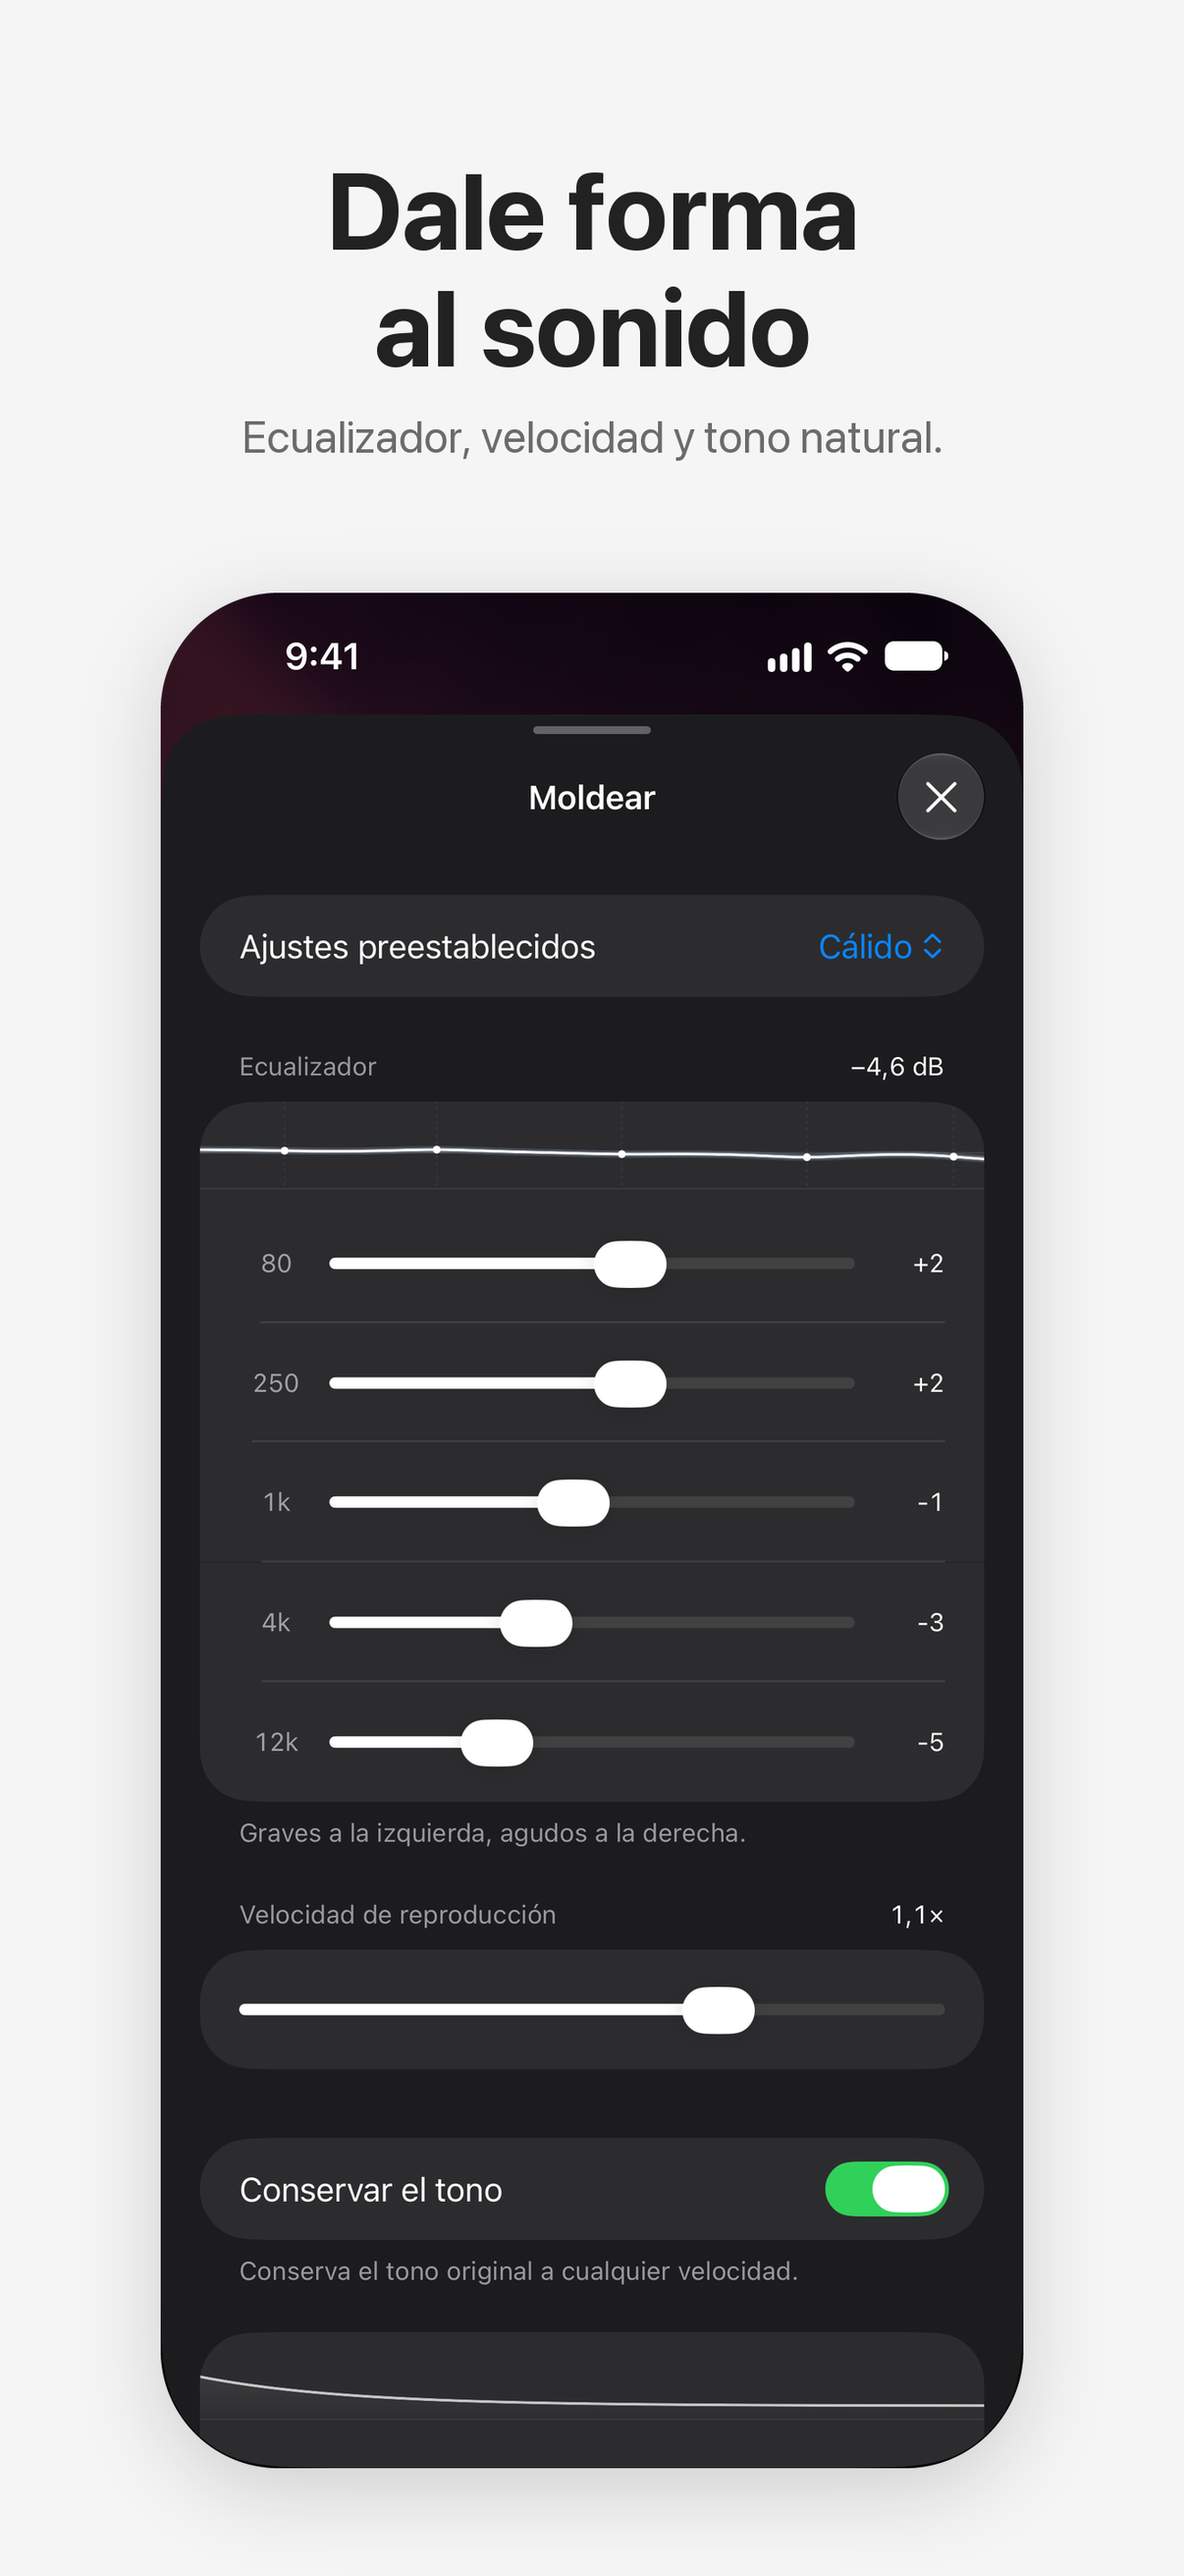
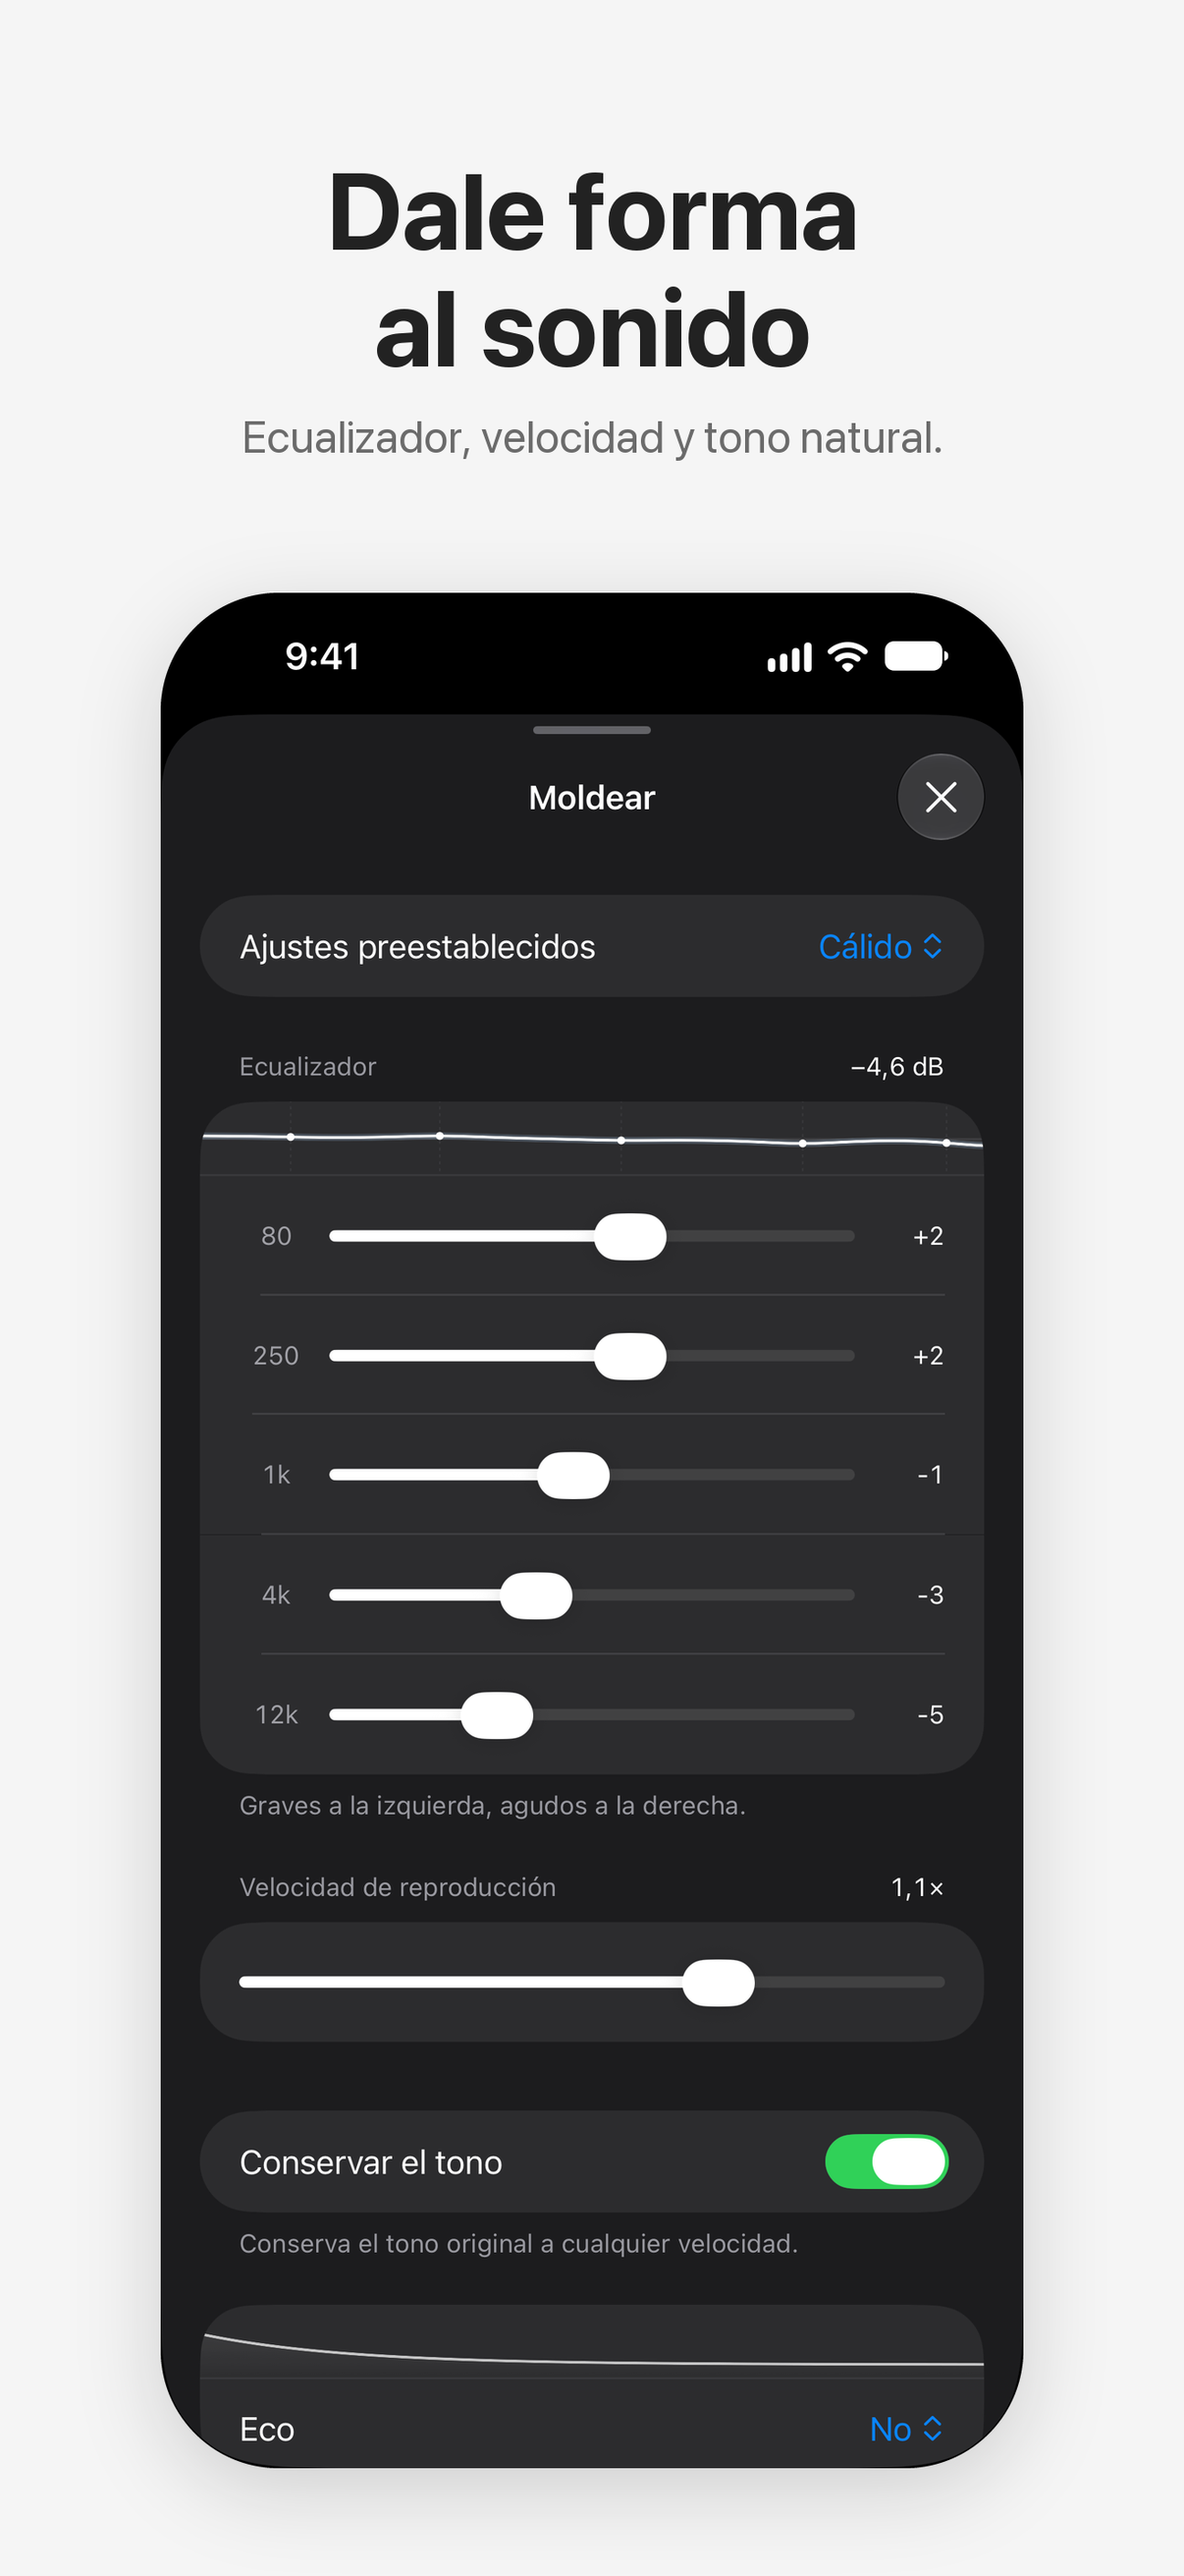
fix(shape): pair studio scopes with first control row to avoid iOS 26 52pt cell floor

diff --git a/src/app/(app)/shaper.tsx b/src/app/(app)/shaper.tsx
@@ -17,7 +17,6 @@ import {
   font,
   foregroundStyle,
   frame,
-  listRowSeparator,
   listSectionMargins,
   monospacedDigit,
   offset,
@@ -25,10 +24,7 @@ import {
   tag,
   tint,
 } from '@expo/ui/swift-ui/modifiers';
-import {
-  prepareShapeScopeCells,
-  scrollSheetSection,
-} from '@modules/audio-session';
+import { scrollSheetSection } from '@modules/audio-session';
 
 import {
   EchoScope,
@@ -38,12 +34,11 @@ import {
   formatSignedDb,
   nextRoom1kDb,
   NextRoomScope,
-  SCOPE_CELL_PAD_Y,
   SCOPE_HEIGHT,
 } from '@/components/player/ShapeScopesIos';
 import { SheetScreen } from '@/components/ui/SheetScreenIos';
 import { SKELETON_DELAY_MS } from '@/components/ui/Skeleton';
-import { ROW_INSET, SCREEN_PADDING, useAppTheme } from '@/core';
+import { useAppTheme } from '@/core';
 import { useDelayedShow } from '@/hooks/useDelayedShow';
 import { useI18n } from '@/i18n';
 import {
@@ -110,6 +105,9 @@ import { FormValueRowIos, SheetFormBodyIos } from '@/ui';
 const FOOTER_TO_HEADER_MAKEUP = 10;
 
 const EQ_LABEL_WIDTH = 38;
+/** iOS 26 inset-grouped Form horizontal card margin and cell content inset (20pt each). */
+const FORM_CARD_INSET = 20;
+const FORM_CELL_INSET = 20;
 
 /** The Presets row's tag for a hand-shaped curve; never a real preset key. */
 const CUSTOM_TAG = 'custom';
@@ -137,16 +135,16 @@ function DjProgressRow(props: Parameters<typeof FormValueRowIos>[0]) {
 }
 
 /**
- * Hosted studio parameter scope row inside a grouped SwiftUI `Section`:
- * - `@expo/ui`'s `SectionView` wraps its children in a `SlotView`, so SwiftUI's
- *   `listRowInsets` cannot reach the `UICollectionViewListCell` directly and
- *   the cell keeps its default `ROW_INSET` (16pt) horizontal and 11pt vertical
- *   content margins.
- * - We therefore reserve the inner row box (`width - ROW_INSET * 2`, height
- *   `SCOPE_HEIGHT - SCOPE_CELL_PAD_Y * 2 + 4`) in the layout `VStack`, and
- *   expand the inner `RNHostView` to the full `cardWidth` (`width`) shifted left
- *   by `-ROW_INSET` so the scope spans 100% edge-to-edge across the grouped
- *   card and lands flush on the bottom cell divider with zero gap.
+ * Hosted studio parameter scope at the top of a grouped SwiftUI `Section`:
+ * - iOS 26 inset-grouped `Form` enforces a `52pt` `defaultMinListRowHeight` on
+ *   every standalone cell (`15pt` top + `22pt` content + `15pt` bottom), which
+ *   previously forced a `38pt` scope cell to `52pt` and left `~8pt` of empty
+ *   space below the scope's bottom border above the first control row.
+ * - Pairing `ScopeRowIos` with the section's first control row inside a single
+ *   `VStack(spacing: 15)` cell avoids creating a separate `52pt`-clamped cell:
+ *   the scope bleeds into the cell's `15pt` top and `20pt` horizontal margins
+ *   to span the full `cardWidth` at its exact `38pt` height, and the control
+ *   row below it receives symmetric `15pt` top and bottom vertical padding.
  */
 function ScopeRowIos({
   width,
@@ -155,13 +153,12 @@ function ScopeRowIos({
   width: number;
   children: ReactElement;
 }) {
-  const innerWidth = Math.max(1, width - ROW_INSET * 2);
-  const layoutHeight = Math.max(16, SCOPE_HEIGHT - SCOPE_CELL_PAD_Y * 2 + 4);
+  const innerWidth = Math.max(1, width - FORM_CELL_INSET * 2);
+  const layoutHeight = SCOPE_HEIGHT - 15;
   return (
     <VStack
       alignment="leading"
       modifiers={[
-        listRowSeparator('hidden', 'bottom'),
         frame({
           width: innerWidth,
           height: layoutHeight,
@@ -172,7 +169,7 @@ function ScopeRowIos({
       <VStack
         modifiers={[
           frame({ width, height: SCOPE_HEIGHT }),
-          offset({ x: -ROW_INSET, y: 0 }),
+          offset({ x: -FORM_CELL_INSET, y: -7.5 }),
         ]}
       >
         <RNHostView>{children}</RNHostView>
@@ -211,43 +208,45 @@ function LevelPickerSection({
 }) {
   return (
     <Section footer={<SwiftUIText>{footer}</SwiftUIText>}>
-      <ScopeRowIos width={scopeWidth}>{scope}</ScopeRowIos>
-      <Picker
-        label={
-          meta ? (
-            <SwiftUIText>
-              <SwiftUIText
-                modifiers={[
-                  font({ textStyle: 'body', weight: 'regular' }),
-                  foregroundStyle(activeColor),
-                ]}
-              >
-                {`${label}  `}
+      <VStack spacing={15}>
+        <ScopeRowIos width={scopeWidth}>{scope}</ScopeRowIos>
+        <Picker
+          label={
+            meta ? (
+              <SwiftUIText>
+                <SwiftUIText
+                  modifiers={[
+                    font({ textStyle: 'body', weight: 'regular' }),
+                    foregroundStyle(activeColor),
+                  ]}
+                >
+                  {`${label}  `}
+                </SwiftUIText>
+                <SwiftUIText
+                  modifiers={[
+                    font({ textStyle: 'subheadline', weight: 'regular' }),
+                    monospacedDigit(),
+                    foregroundStyle(mutedColor),
+                  ]}
+                >
+                  {meta}
+                </SwiftUIText>
               </SwiftUIText>
-              <SwiftUIText
-                modifiers={[
-                  font({ textStyle: 'subheadline', weight: 'regular' }),
-                  monospacedDigit(),
-                  foregroundStyle(mutedColor),
-                ]}
-              >
-                {meta}
-              </SwiftUIText>
+            ) : (
+              label
+            )
+          }
+          selection={value}
+          onSelectionChange={onChange}
+          modifiers={[pickerStyle('menu')]}
+        >
+          {EFFECT_LEVELS.map(level => (
+            <SwiftUIText key={level} modifiers={[tag(level)]}>
+              {levelLabel(level)}
             </SwiftUIText>
-          ) : (
-            label
-          )
-        }
-        selection={value}
-        onSelectionChange={onChange}
-        modifiers={[pickerStyle('menu')]}
-      >
-        {EFFECT_LEVELS.map(level => (
-          <SwiftUIText key={level} modifiers={[tag(level)]}>
-            {levelLabel(level)}
-          </SwiftUIText>
-        ))}
-      </Picker>
+          ))}
+        </Picker>
+      </VStack>
     </Section>
   );
 }
@@ -255,17 +254,10 @@ function LevelPickerSection({
 function ShaperSheetScreen() {
   const { t, locale } = useI18n();
   const { width: winW } = useWindowDimensions();
-  const scopeWidth = Math.max(1, Math.round(winW - SCREEN_PADDING * 2));
+  const scopeWidth = Math.max(1, Math.round(winW - FORM_CARD_INSET * 2));
 
   useEffect(() => {
     track({ name: 'open_shape' });
-    prepareShapeScopeCells();
-    const t1 = setTimeout(prepareShapeScopeCells, 120);
-    const t2 = setTimeout(prepareShapeScopeCells, 350);
-    return () => {
-      clearTimeout(t1);
-      clearTimeout(t2);
-    };
   }, []);
   const { colors } = useAppTheme();
 
@@ -429,12 +421,9 @@ function ShaperSheetScreen() {
           }
           footer={<SwiftUIText>{t('player.eq.hint')}</SwiftUIText>}
         >
-          <ScopeRowIos width={scopeWidth}>
-            <EqScope gains={gains} playing={playing} width={scopeWidth} />
-          </ScopeRowIos>
           {EQ_BANDS.map((band, index) => {
             const bandActive = gains[index] !== 0;
-            return (
+            const row = (
               <HStack key={band.hz} spacing={8}>
                 <SwiftUIText
                   modifiers={[...mutedText, frame({ width: EQ_LABEL_WIDTH })]}
@@ -460,6 +449,16 @@ function ShaperSheetScreen() {
                   {dbLabel(gains[index])}
                 </SwiftUIText>
               </HStack>
+            );
+            return index === 0 ? (
+              <VStack key={band.hz} spacing={15}>
+                <ScopeRowIos width={scopeWidth}>
+                  <EqScope gains={gains} playing={playing} width={scopeWidth} />
+                </ScopeRowIos>
+                {row}
+              </VStack>
+            ) : (
+              row
             );
           })}
         </Section>

diff --git a/modules/audio-session/ios/AudioSessionModule.swift b/modules/audio-session/ios/AudioSessionModule.swift
@@ -17,36 +17,6 @@ public class AudioSessionModule: Module {
     return nil
   }
 
-  private static func hideNativeSeparators(in view: UIView, rootCell: UIView) {
-    for sub in view.subviews {
-      let typeName = String(describing: type(of: sub))
-      let frameInCell = sub.convert(sub.bounds, to: rootCell)
-      if typeName.contains("Separator") ||
-         (sub.bounds.height > 0 && sub.bounds.height <= 1.5 && frameInCell.maxY >= rootCell.bounds.height - 3) {
-        sub.isHidden = true
-        sub.alpha = 0
-      } else {
-        hideNativeSeparators(in: sub, rootCell: rootCell)
-      }
-    }
-  }
-
-  private static func applyFullBleedSeparator(to cell: UICollectionViewCell) {
-    hideNativeSeparators(in: cell, rootCell: cell)
-  }
-
-  private static func tuneScopeCells(in cv: UICollectionView) {
-    // Sections 1 (Equalizer), 4 (Echo), and 5 (Next Room) have their studio
-    // parameter scope at item 0.
-    for section in [1, 4, 5] where section < cv.numberOfSections {
-      guard cv.numberOfItems(inSection: section) > 0 else { continue }
-      let indexPath = IndexPath(item: 0, section: section)
-      if let cell = cv.cellForItem(at: indexPath) {
-        applyFullBleedSeparator(to: cell)
-      }
-    }
-  }
-
   public func definition() -> ModuleDefinition {
     Name("AudioSession")
 
@@ -120,38 +90,6 @@ public class AudioSessionModule: Module {
 
         if abs(sv.contentOffset.y - targetY) > 2 {
           sv.setContentOffset(CGPoint(x: sv.contentOffset.x, y: targetY), animated: true)
-          if let cv = sv as? UICollectionView {
-            Self.tuneScopeCells(in: cv)
-            DispatchQueue.main.asyncAfter(deadline: .now() + 0.35) {
-              Self.tuneScopeCells(in: cv)
-            }
-          }
-        } else if let cv = sv as? UICollectionView {
-          Self.tuneScopeCells(in: cv)
-        }
-      }
-    }
-
-    Function("prepareShapeScopeCells") { () in
-      DispatchQueue.main.async {
-        guard
-          let scene = UIApplication.shared.connectedScenes
-            .compactMap({ $0 as? UIWindowScene })
-            .first(where: { $0.activationState == .foregroundActive }),
-          let window = scene.windows.first(where: { $0.isKeyWindow }) ?? scene.windows.first,
-          let root = window.rootViewController
-        else { return }
-
-        var scrollView: UIScrollView?
-        var current = root.presentedViewController
-        while let vc = current {
-          if let found = Self.findFormScrollView(in: vc.view) {
-            scrollView = found
-          }
-          current = vc.presentedViewController
-        }
-        if let cv = scrollView as? UICollectionView {
-          Self.tuneScopeCells(in: cv)
         }
       }
     }

diff --git a/src/components/player/ShapeScopesIos.tsx b/src/components/player/ShapeScopesIos.tsx
@@ -42,18 +42,13 @@ import {
 export const SCOPE_HEIGHT = 38;
 const LINE_PAD_Y = 7.5;
 /**
- * Standard iOS 26 inset-grouped Form cell padding (`UICollectionViewListCell`
- * default contentMargins when `@expo/ui`'s `SectionView` wraps children in
- * `SlotView`, preventing `listRowInsets` from reaching the cell directly):
- * - Horizontal: `ROW_INSET` (16pt) on each side, so bleeding `±16pt` expands
- *   the scope across the full `cardWidth` edge-to-edge.
- * - Vertical: `11pt` top and bottom around a cell's content, so shifting down
- *   by `+11pt` (`marginBottom: -11`) seats `y = SCOPE_HEIGHT` dead-on the
- *   cell's bottom separator line, with an `11pt` upward extension (`BLEED_TOP`)
- *   so vertical grid lines reach the card's top border.
+ * Standard iOS 26 inset-grouped Form top cell inset (`15pt`): extending the
+ * SVG viewBox upward by `15pt` (`BLEED_TOP`) while pairing `ScopeRowIos` with
+ * the section's first control row in one `VStack` cell lets the `38pt` scope
+ * sit flush against the card's top border without triggering iOS 26's `52pt`
+ * `defaultMinListRowHeight` on a standalone scope cell.
  */
-export const SCOPE_CELL_PAD_Y = 11;
-const BLEED_TOP = SCOPE_CELL_PAD_Y;
+const BLEED_TOP = 15;
 const SVG_HEIGHT = SCOPE_HEIGHT + BLEED_TOP;
 /**
  * The bottom divider sits at `y = SCOPE_HEIGHT - 0.5` (spanning `37.0..38.0`).
@@ -1014,8 +1009,6 @@ export function NextRoomScope({
 const styles = StyleSheet.create({
   box: {
     height: SCOPE_HEIGHT,
-    marginBottom: -SCOPE_CELL_PAD_Y,
-    marginTop: 4,
   },
   svg: {
     marginTop: -BLEED_TOP,

diff --git a/modules/audio-session/src/index.ts b/modules/audio-session/src/index.ts
@@ -3,7 +3,6 @@ import { requireOptionalNativeModule } from 'expo-modules-core';
 type NativeAudioSession = {
   excludeFromBackup: (path: string) => void;
   isOtherAudioPlaying: () => boolean;
-  prepareShapeScopeCells?: () => void;
   scrollSheetSection?: (section: number) => void;
 };
 
@@ -37,8 +36,4 @@ export const excludeFromBackup = (path: string): void => {
  */
 export const scrollSheetSection = (section: number): void => {
   native?.scrollSheetSection?.(section);
-};
-
-export const prepareShapeScopeCells = (): void => {
-  native?.prepareShapeScopeCells?.();
 };
